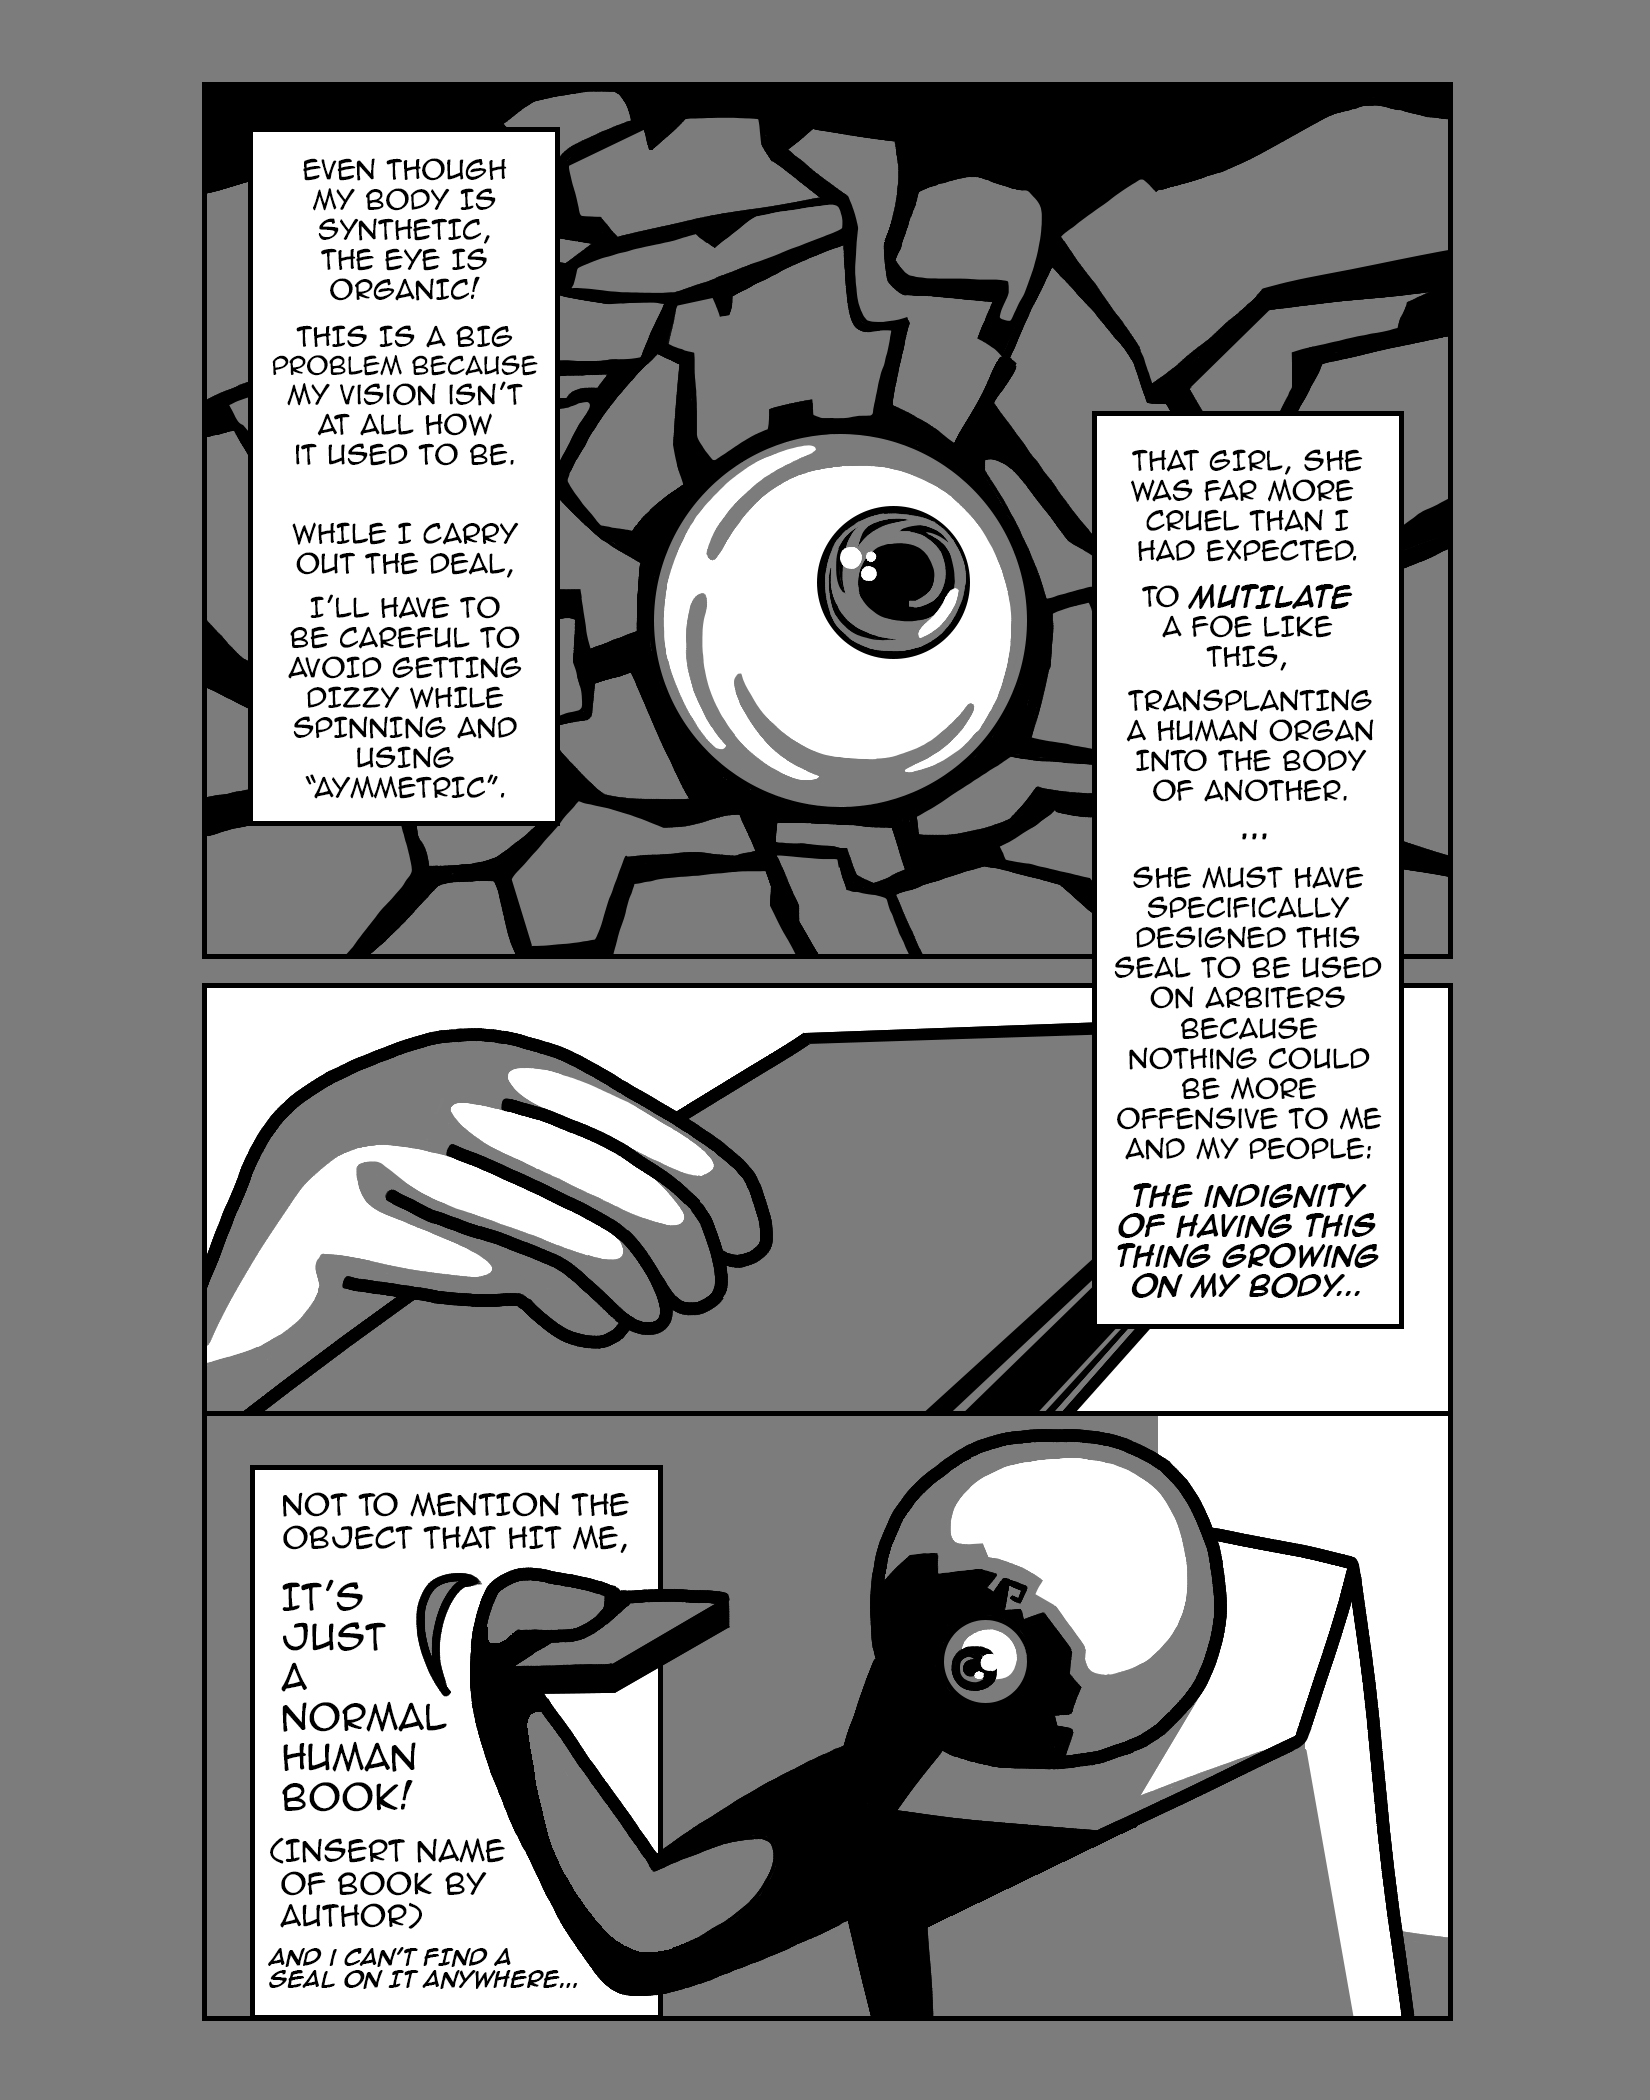
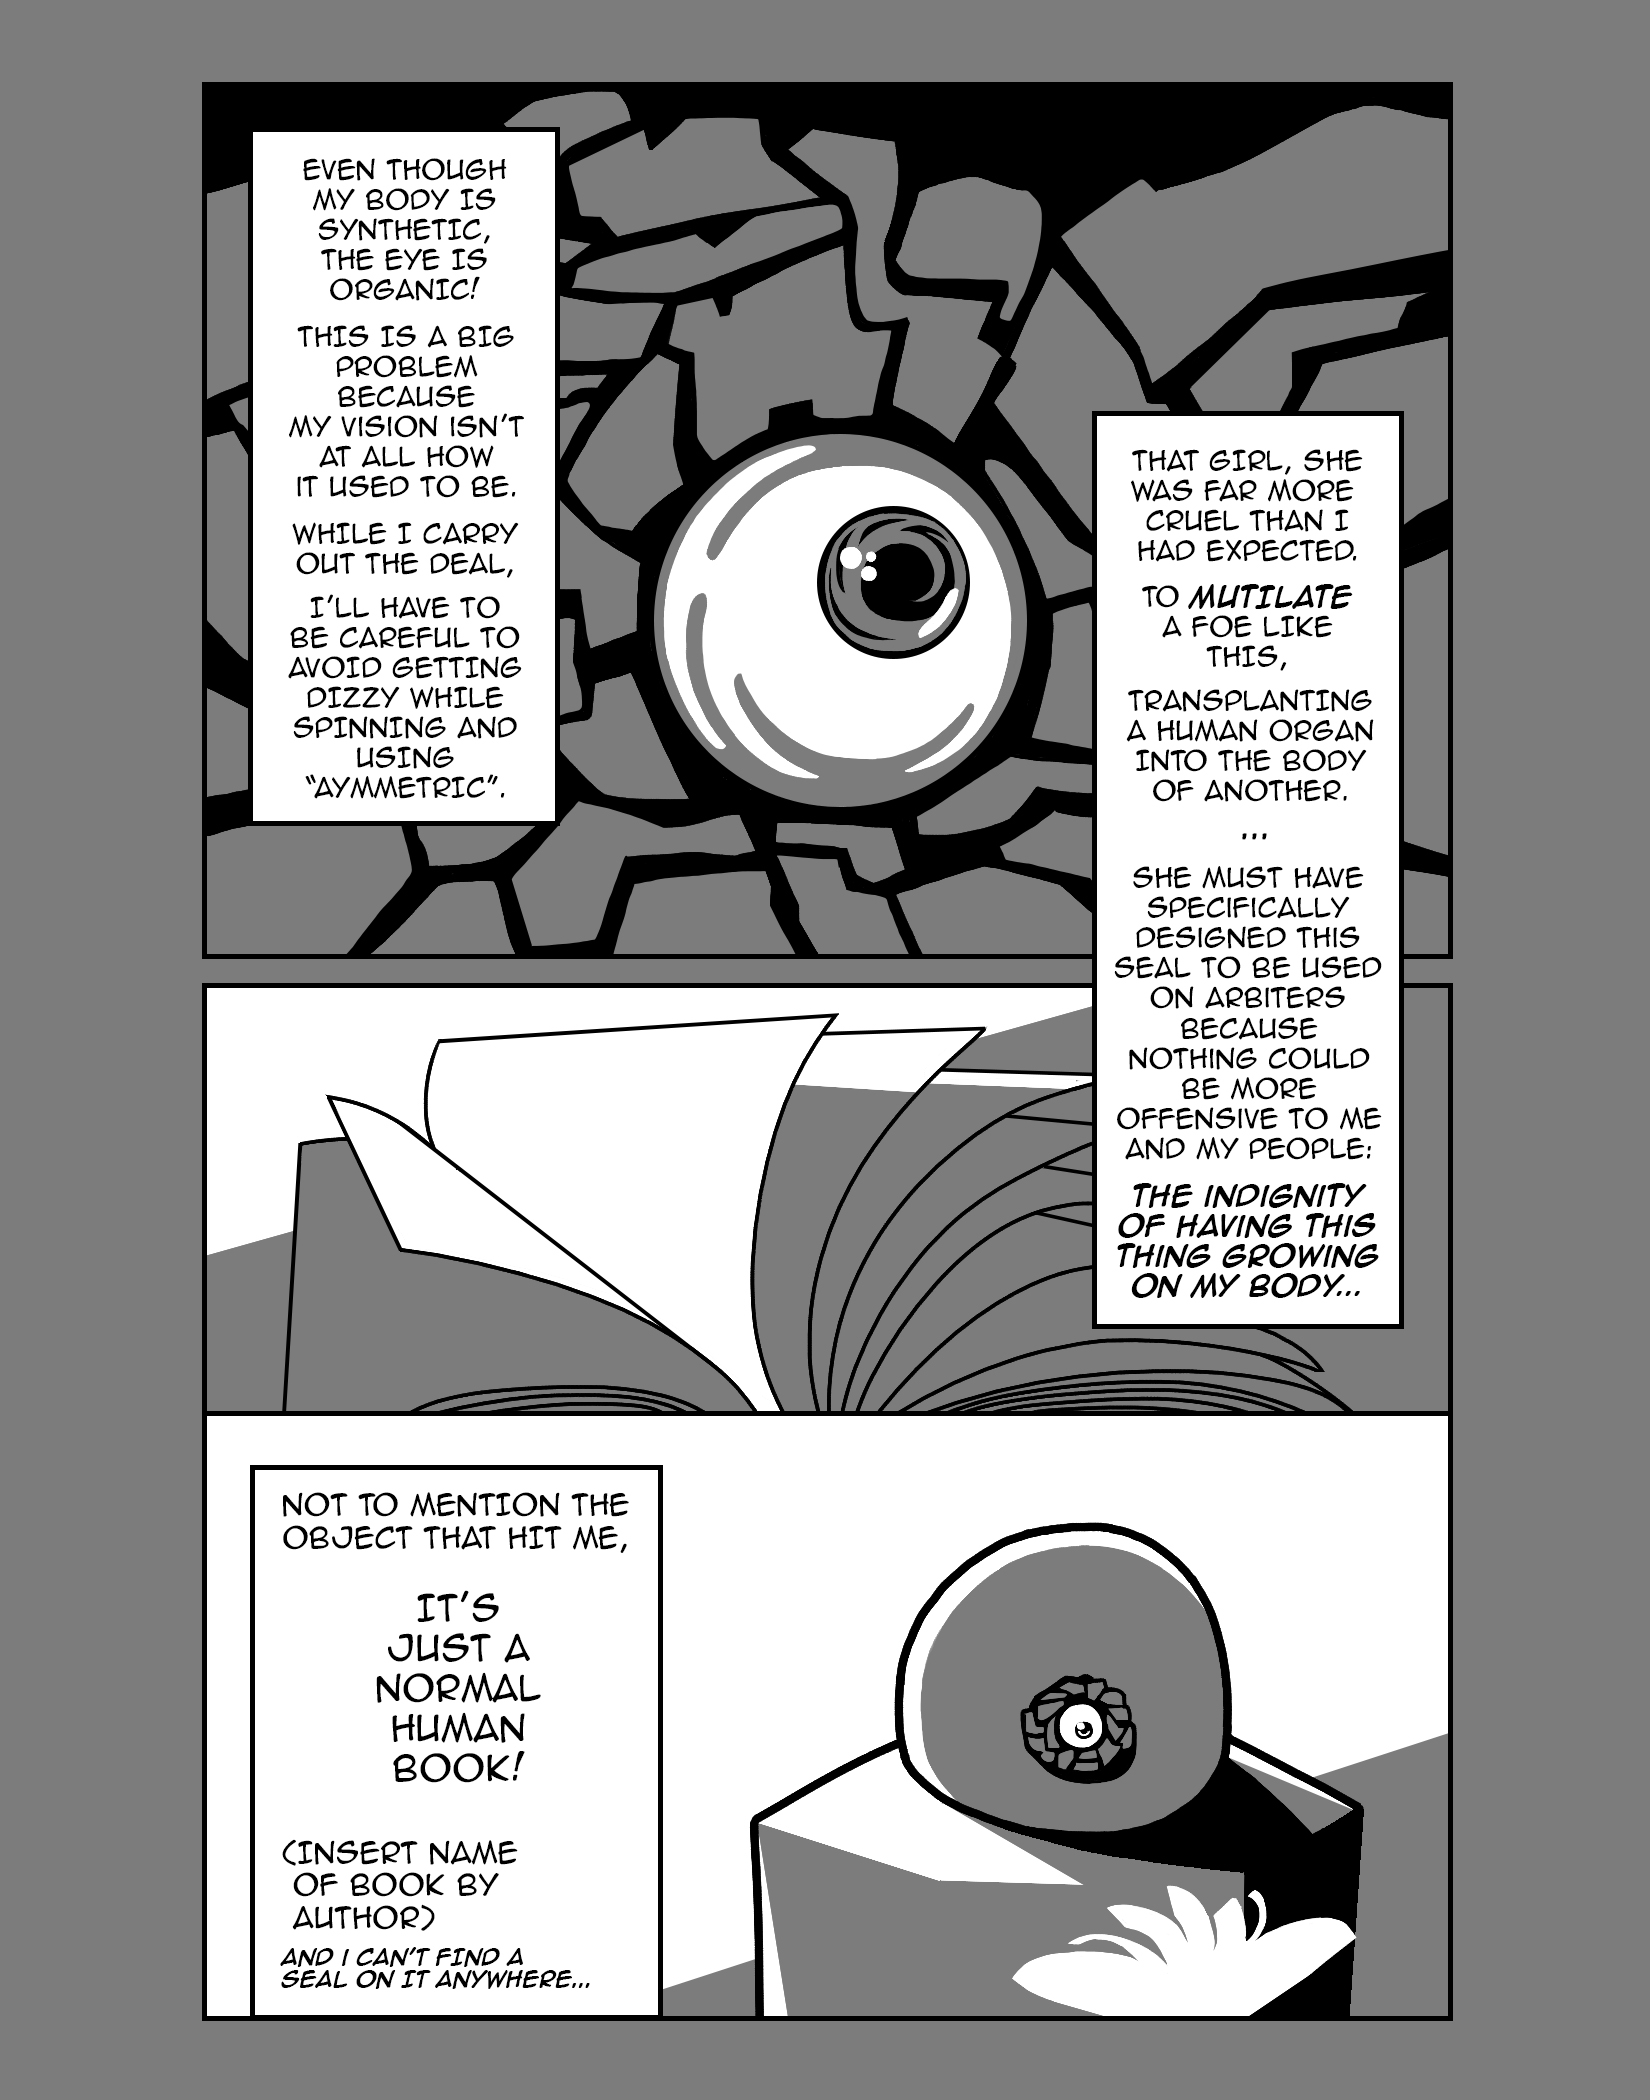
68 and 69

Changed region(s): [[0.1236, 0.4643, 0.8964, 0.9595], [0.1545, 0.1548, 0.34, 0.2476], [0.5564, 0.5881, 0.5873, 0.619]]

diff --git a/index.html b/index.html
@@ -168,6 +168,10 @@ p {font-size:30px;}
 <p>66</p><br>
 <img src="PAGES\page067.jpg" alt="Page Sixty Seven" class="responsive">
 <p>67</p><br>
+<img src="PAGES\page068.jpg" alt="Page Sixty Eight" class="responsive">
+<p>68</p><br>
+<img src="PAGES\page069.jpg" alt="Page Sixty Nine" class="responsive">
+<p>69</p><br>
 </div>
 
 
